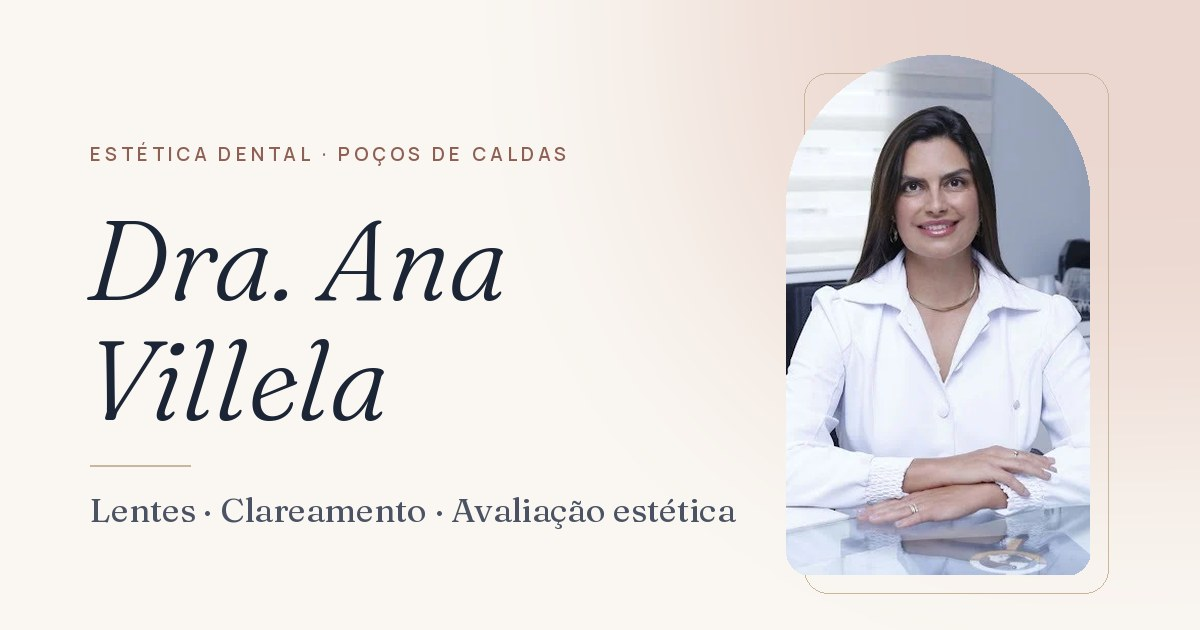
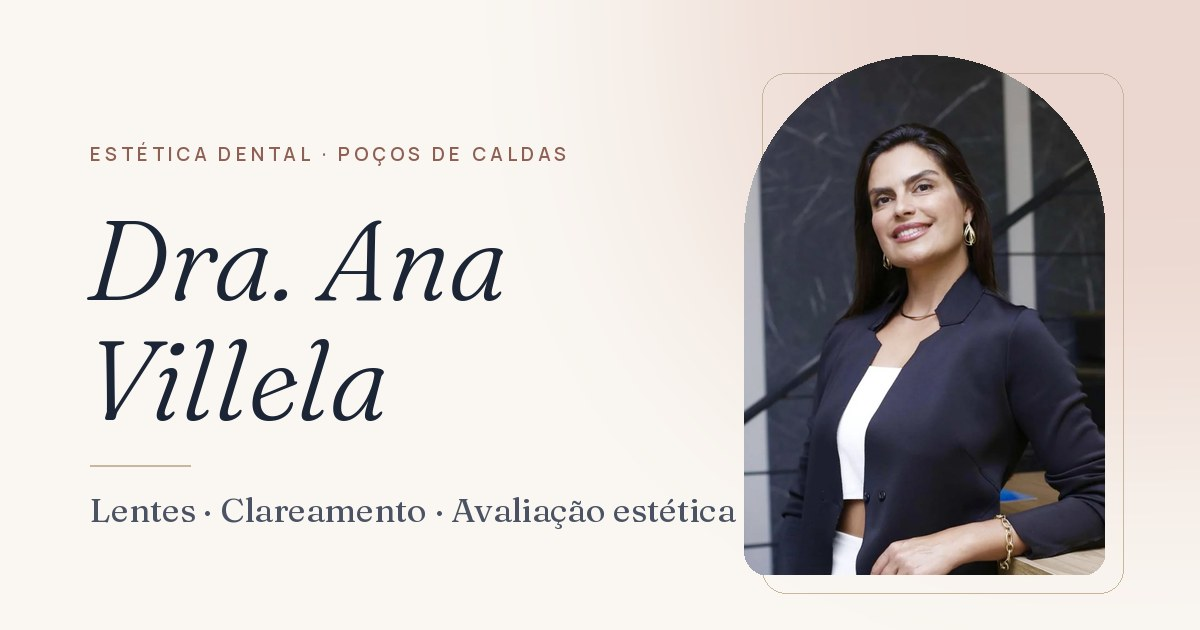
Trocar as fotos da doutora pelas novas, em alta resolução
Hero com o retrato de blazer e a seção Sobre com a foto no consultório,
em três larguras (srcset) para ficar nítido no celular e no desktop.
Na foto do consultório, o quadro com close de sorriso foi coberto e a
marca da clínica na cadeira foi cortada. Imagem de compartilhamento
atualizada.

Claude-Session: https://claude.ai/code/session_01FtHKSW617BsgdHpnnWwtzy

Changed region(s): [[0.6167, 0.0905, 0.925, 0.9349]]

diff --git a/dra-ana-villela/src/components/Hero.tsx b/dra-ana-villela/src/components/Hero.tsx
@@ -78,15 +78,17 @@ export function Hero() {
 
         <figure className="hero-photo relative mx-auto w-full max-w-[22rem] lg:max-w-[25rem]">
           <div aria-hidden className="absolute -inset-3 translate-x-4 translate-y-4 rounded-t-[999px] rounded-b-[1.75rem] border border-champagne/70" />
-          <div className="relative aspect-[297/470] overflow-hidden rounded-t-[999px] rounded-b-[1.75rem] bg-porcelana-2">
+          <div className="relative aspect-[5/8] overflow-hidden rounded-t-[999px] rounded-b-[1.75rem] bg-porcelana-2">
             <img
               src={CONFIG.fotos.retrato}
-              alt={`${CONFIG.nome}, de jaleco branco, sorrindo no consultório`}
-              width={297}
-              height={508}
+              srcSet={CONFIG.fotos.retratoSrcSet}
+              sizes="(min-width: 1024px) 400px, min(352px, calc(100vw - 40px))"
+              alt={`${CONFIG.nome}, de blazer azul-marinho, sorrindo`}
+              width={1015}
+              height={1726}
               fetchPriority="high"
               decoding="async"
-              className="h-full w-full object-cover object-top"
+              className="h-full w-full object-cover object-[50%_42%]"
             />
           </div>
           <figcaption className="absolute -bottom-5 left-1/2 -translate-x-1/2 whitespace-nowrap rounded-full border border-tinta/10 bg-porcelana px-5 py-2.5 text-center shadow-[0_10px_30px_-18px_rgba(27,37,54,0.45)]">

diff --git a/dra-ana-villela/index.html b/dra-ana-villela/index.html
@@ -28,7 +28,7 @@
     <link rel="preload" as="style" href="https://fonts.googleapis.com/css2?family=Fraunces:ital,opsz,wght@0,9..144,300..500;1,9..144,300..500&family=Manrope:wght@400;500;600&display=swap" />
     <link rel="stylesheet" href="https://fonts.googleapis.com/css2?family=Fraunces:ital,opsz,wght@0,9..144,300..500;1,9..144,300..500&family=Manrope:wght@400;500;600&display=swap" media="print" onload="this.media='all'" />
     <noscript><link rel="stylesheet" href="https://fonts.googleapis.com/css2?family=Fraunces:ital,opsz,wght@0,9..144,300..500;1,9..144,300..500&family=Manrope:wght@400;500;600&display=swap" /></noscript>
-    <link rel="preload" as="image" href="/fotos/dra-ana-villela-retrato.webp" fetchpriority="high" />
+    <link rel="preload" as="image" href="/fotos/dra-ana-villela-retrato-760.webp" imagesrcset="/fotos/dra-ana-villela-retrato-480.webp 480w, /fotos/dra-ana-villela-retrato-760.webp 760w, /fotos/dra-ana-villela-retrato-1015.webp 1015w" imagesizes="(min-width: 1024px) 400px, min(352px, calc(100vw - 40px))" fetchpriority="high" />
 
     <script type="application/ld+json">%JSON_LD%</script>
   </head>

diff --git a/dra-ana-villela/src/components/Sections.tsx b/dra-ana-villela/src/components/Sections.tsx
@@ -221,12 +221,14 @@ export function Sobre() {
         <Reveal className="relative order-last mx-auto w-full max-w-[22rem] lg:order-first lg:max-w-[24rem]">
           <div aria-hidden className="absolute -left-6 -top-6 h-40 w-40 rounded-full border border-champagne/70" />
           <figure className="relative">
-            <div className="aspect-[380/600] overflow-hidden rounded-[1.75rem] bg-porcelana-2">
+            <div className="aspect-[4/6] overflow-hidden rounded-[1.75rem] bg-porcelana-2">
               <img
                 src={CONFIG.fotos.consultorio}
-                alt={`${CONFIG.nome} no consultório, de jaleco escuro`}
-                width={380}
-                height={677}
+                srcSet={CONFIG.fotos.consultorioSrcSet}
+                sizes="(min-width: 1024px) 384px, min(352px, calc(100vw - 40px))"
+                alt={`${CONFIG.nome} no consultório, de jaleco azul-marinho, calçando luvas`}
+                width={953}
+                height={1560}
                 loading="lazy"
                 decoding="async"
                 className="h-full w-full object-cover object-top"

diff --git a/dra-ana-villela/src/config.ts b/dra-ana-villela/src/config.ts
@@ -57,8 +57,14 @@ export const CONFIG = {
   clinicaParceira: null as string | null,
 
   fotos: {
-    retrato: "/fotos/dra-ana-villela-retrato.webp",
-    consultorio: "/fotos/dra-ana-villela-consultorio.webp",
+    // Fotos da doutora em 3 larguras (o navegador escolhe a ideal para cada tela).
+    retrato: "/fotos/dra-ana-villela-retrato-760.webp",
+    retratoSrcSet:
+      "/fotos/dra-ana-villela-retrato-480.webp 480w, /fotos/dra-ana-villela-retrato-760.webp 760w, /fotos/dra-ana-villela-retrato-1015.webp 1015w",
+    // Na foto do consultório, o quadro com close de sorriso foi coberto e a marca da clínica na cadeira foi cortada.
+    consultorio: "/fotos/dra-ana-villela-consultorio-760.webp",
+    consultorioSrcSet:
+      "/fotos/dra-ana-villela-consultorio-480.webp 480w, /fotos/dra-ana-villela-consultorio-760.webp 760w, /fotos/dra-ana-villela-consultorio-953.webp 953w",
     // Fotos da ficha do Google. A marca da clínica foi removida da fachada e da entrada,
     // e as imagens de sorriso (quadros e monitor) foram cobertas. CONFIRMAR autorização de uso.
     fachada: "/fotos/fachada.webp",
